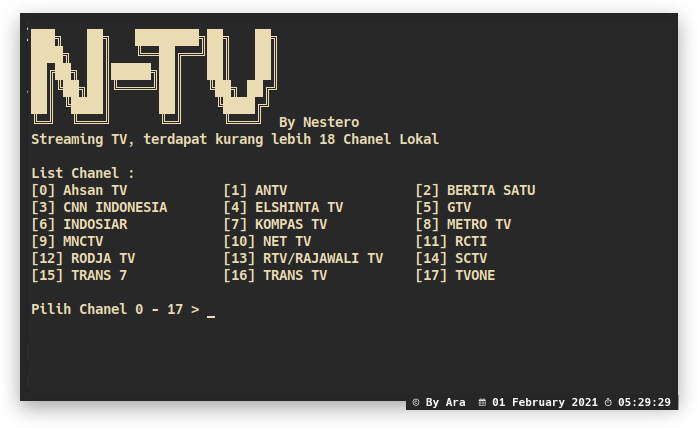
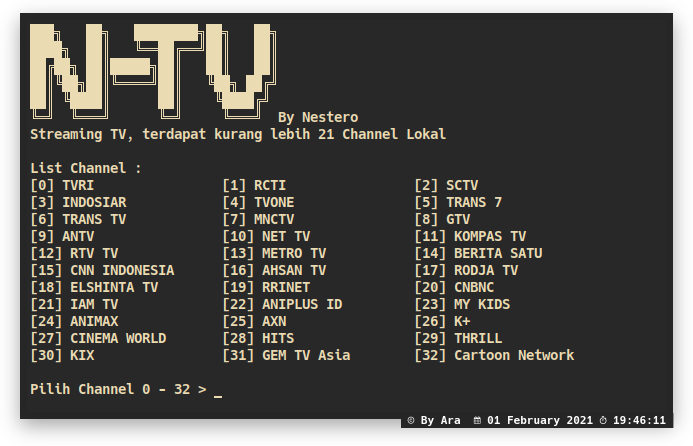
update list

diff --git a/tv.py b/tv.py
@@ -13,16 +13,15 @@ jml_chl = (len(tv))
 while True:
     s("clear")
     print(f"""
-
 ███╗   ██╗   ████████╗██╗   ██╗
 ████╗  ██║   ╚══██╔══╝██║   ██║
 ██╔██╗ ██║█████╗██║   ██║   ██║
 ██║╚██╗██║╚════╝██║   ╚██╗ ██╔╝
 ██║ ╚████║      ██║    ╚████╔╝ 
 ╚═╝  ╚═══╝      ╚═╝     ╚═══╝  By Nestero
-Streaming TV, terdapat kurang lebih {jml_chl} Chanel Lokal 
+Streaming TV, terdapat kurang lebih 21 Channel Lokal 
 	""")
-    print("List Chanel :")
+    print("List Channel :")
 
     for i, key in enumerate(tv):
     	if (i + 1) % 3:
@@ -30,7 +29,7 @@ Streaming TV, terdapat kurang lebih {jml_chl} Chanel Lokal
     	else:
         	print(key, end='\n')    
 
-    p_tv = int(input(f"\nPilih Chanel 0 - {jml_chl-1} > "))
+    p_tv = int(input(f"\nPilih Channel 0 - {jml_chl-1} > "))
     
     if p_tv == 99:
         exit()
